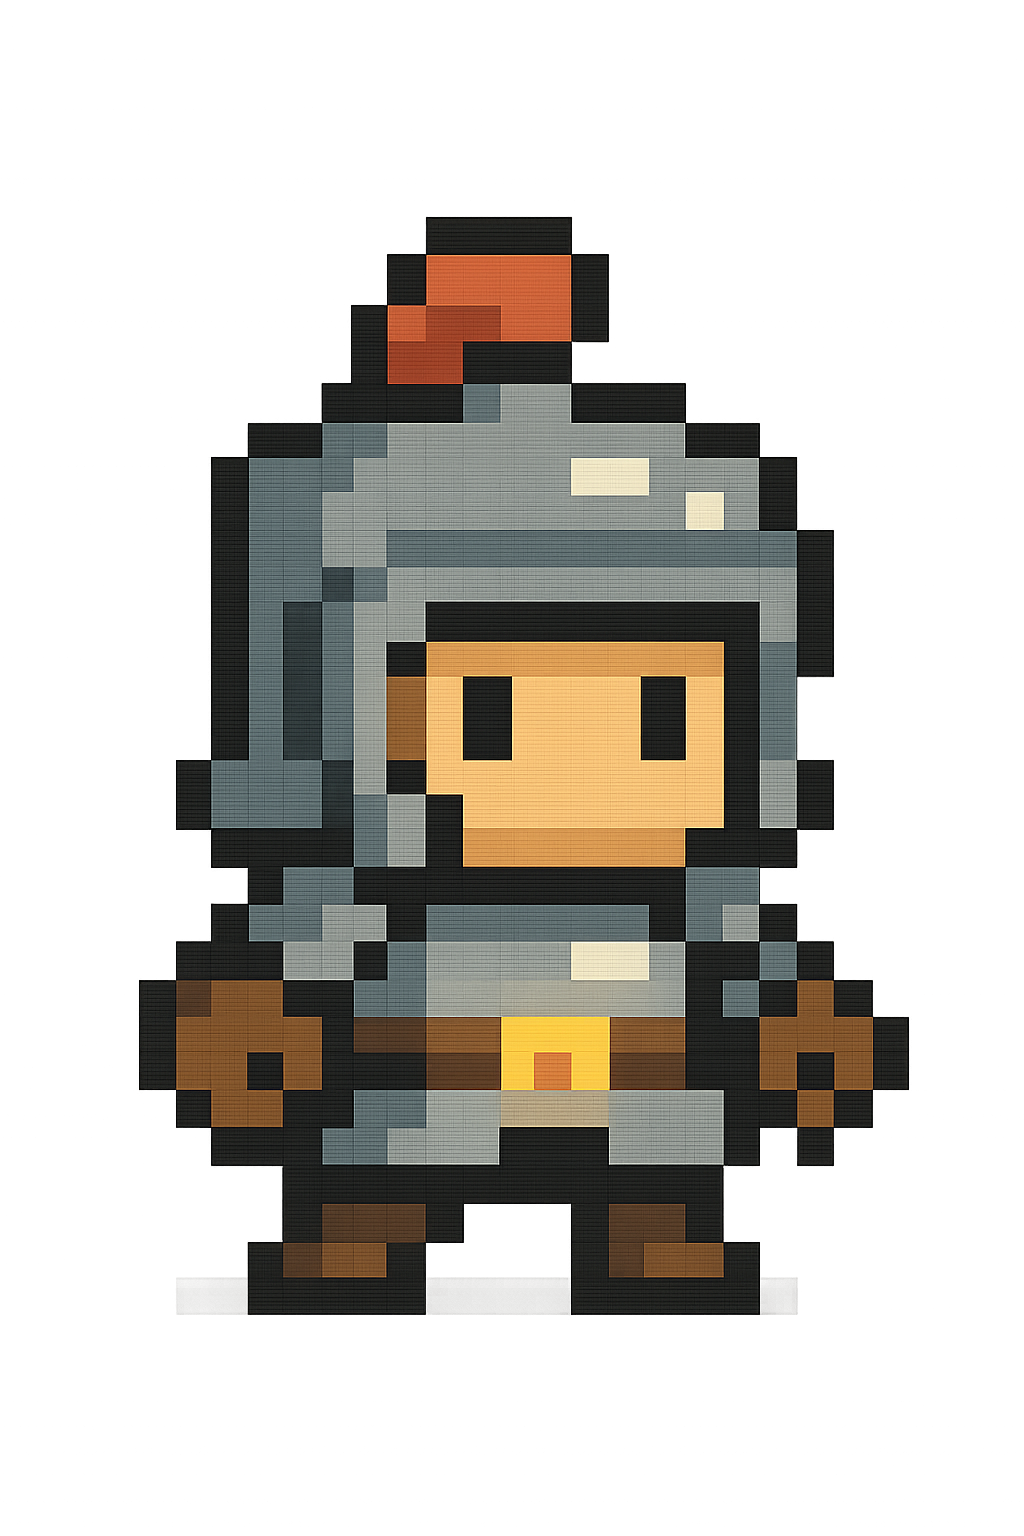
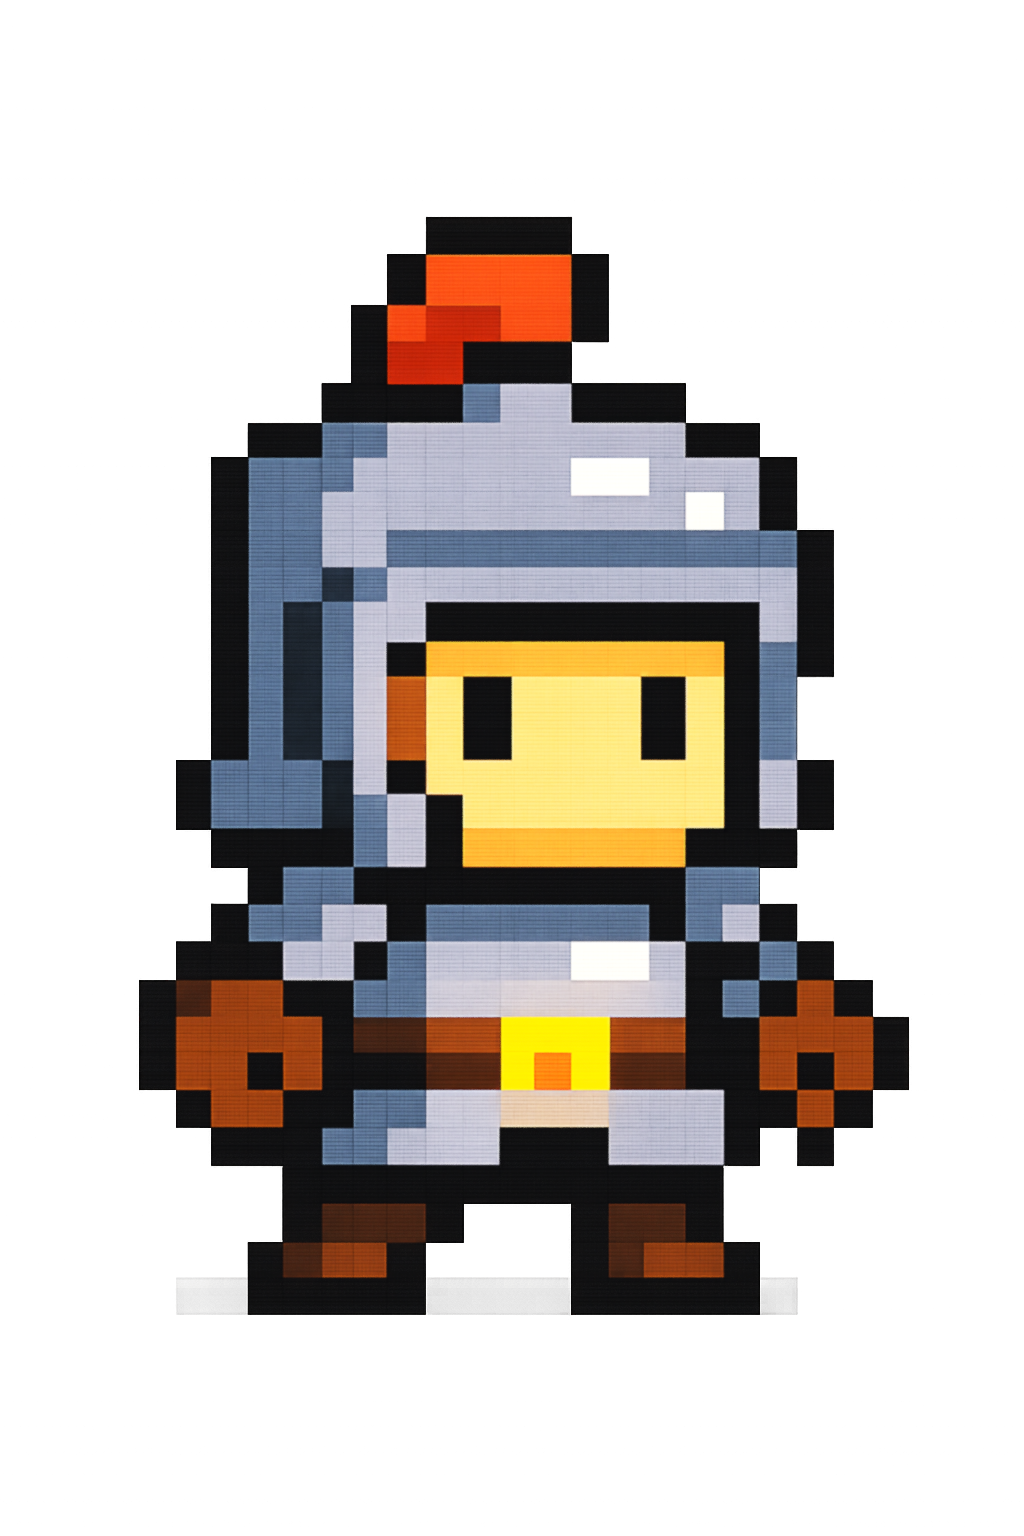
відредаговано відображення героя та зброї

Changed region(s): [[0.1562, 0.1562, 0.875, 0.8438]]

diff --git a/core/src/main/java/com/pixelteam/adventures/entities/player/Player.java b/core/src/main/java/com/pixelteam/adventures/entities/player/Player.java
@@ -39,7 +39,7 @@ public class Player extends Character {
         this.position = new Vector2(x, y);
         this.velocity = new Vector2(0.0F, 0.0F);
         this.width = 64.0F;
-        this.height = 64.0F;
+        this.height = 84.0F;
         this.health = 300;
         this.maxHealth = 300;
         this.speed = 200.0F;

diff --git a/core/src/main/java/com/pixelteam/adventures/weapons/MeleeWeapon.java b/core/src/main/java/com/pixelteam/adventures/weapons/MeleeWeapon.java
@@ -49,7 +49,7 @@ public class MeleeWeapon extends Weapon {
         // Set dimensions based on loaded texture, or use defaults
         if (this.texture != null) {
 
-            this.width = 42;
+            this.width = 45;
             this.height = 64;
         }
 
